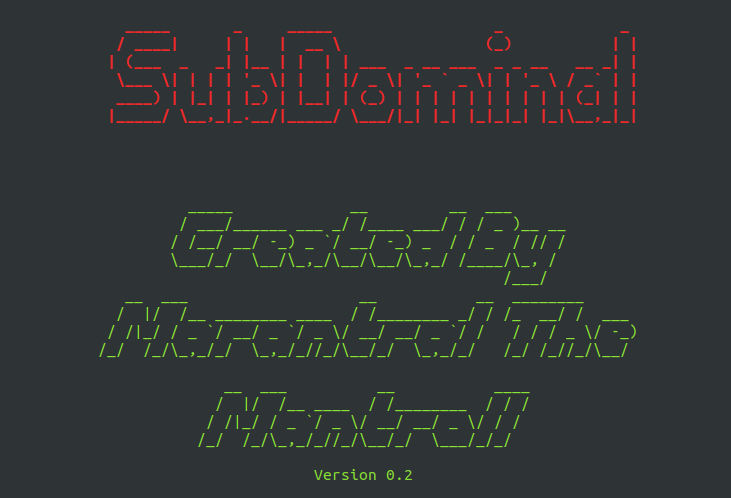
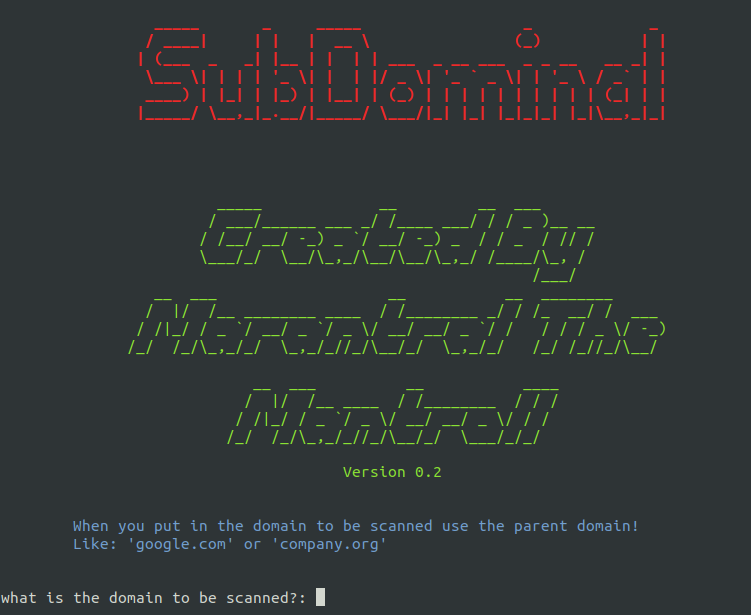
Updated main py

diff --git a/subdom.py b/subdom.py
@@ -33,28 +33,28 @@ def wayback(sites):
 
 def scandns(sites):
     isp = {"23.202.231.169", "23.221.222.250"}
-    ddns = {'.herokudns.com', ".herokuapp.com", "herokussl.com", ".azurewebsites.net", ".cloudapp.net",
+    ddns = {'.herokudns.com', ".herokuapp.com", ".herokussl.com", ".azurewebsites.net", ".cloudapp.net",
             ".azure-api.net", ".trafficmanager.net", ".azureedge.net", ".cloudapp.azure.com", ".cloudfront.net",
-            ".s3.amazonaws.com", ".awsptr.com", ".elasticbeanstalk.com", ".uservoice.com", "unbouncepages.com",
-            "ghs.google.com", "ghs.googlehosted.com", ".ghs-ssl.googlehosted.com", ".github.io", "www.gitbooks.io",
-            "sendgrid.net", ".feedpress.me", ".fastly.net", ".webflow.io", "proxy.webflow.com", ".helpscoutdocs.com",
+            ".s3.amazonaws.com", ".awsptr.com", ".elasticbeanstalk.com", ".uservoice.com", ".unbouncepages.com",
+            ".ghs.google.com", ".ghs.googlehosted.com", ".ghs-ssl.googlehosted.com", ".github.io", ".www.gitbooks.io",
+            ".sendgrid.net", ".feedpress.me", ".fastly.net", ".webflow.io", ".proxy.webflow.com", ".helpscoutdocs.com",
             ".readmessl.com", ".desk.com", ".zendesk.com", ".mktoweb.com", ".wordpress.com", ".wpengine.com",
             ".cloudflare.net", ".netlify.com", ".bydiscourse.com", ".netdna-cdn.com", ".pageserve.co",
-            ".pantheonsite.io", ".arlo.co", ".apigee.net", ".pmail5.com", ".cm-hosting.com", "ext-cust.squarespace.com",
-            "ext.squarespace.com", "www.squarespace6.com", ".locationinsight.com", ".helpsite.io", "saas.moonami.com",
-            "custom.bnc.lt", ".qualtrics.com", ".dotcmscloud.net", ".dotcmscloud.com", ".knowledgeowl.com",
-            ".atlashost.eu", "headwayapp.co", "domain.pixieset.com", "cname.bitly.com", ".awmdm.com", ".meteor.com",
-            ".postaffiliatepro.com", "na.iso.postaffiliatepro.com", ".copiny.com", ".kxcdn.com", "phs.getpostman.com",
+            ".pantheonsite.io", ".arlo.co", ".apigee.net", ".pmail5.com", ".cm-hosting.com", ".ext-cust.squarespace.com",
+            ".ext.squarespace.com", ".www.squarespace6.com", ".locationinsight.com", ".helpsite.io", ".saas.moonami.com",
+            ".custom.bnc.lt", ".qualtrics.com", ".dotcmscloud.net", ".dotcmscloud.com", ".knowledgeowl.com",
+            ".atlashost.eu", "headwayapp.co", ".domain.pixieset.com", ".cname.bitly.com", ".awmdm.com", ".meteor.com",
+            ".postaffiliatepro.com", ".na.iso.postaffiliatepro.com", ".copiny.com", ".kxcdn.com", ".phs.getpostman.com",
             ".appdirect.com", ".streamshark.io", ".ethosce.com", ".custhelp.com", ".onelink-translations.com",
-            ".mashery.com", ".edgesuite.net", ".akadns.net", ".edgekey.net", 'akamaiedge.net', ".edgekey-staging.net",
+            ".mashery.com", ".edgesuite.net", ".akadns.net", ".edgekey.net", '.akamaiedge.net', ".edgekey-staging.net",
             ".lldns.net", ".edgecastcdn.net", "centercode.com", ".jivesoftware.com", ".cvent.com", ".covisint.com",
             ".digitalrivercontent.net", ".akahost.net", ".connectedcommunity.org", ".lithium.com", ".sl.smartling.com",
-            "pfsweb.com", ".bsd.net", ".vovici.net", ".extole.com", ".ent-sessionm.com", ".eloqua.com", ".inscname.net",
-            "insnw.net", ".2o7.net", ".wnmh.net", ".footprint.net", ".llnwd.net", ".cust.socrata.net", ".scrool.se",
+            ".pfsweb.com", ".bsd.net", ".vovici.net", ".extole.com", ".ent-sessionm.com", ".eloqua.com", ".inscname.net",
+            ".insnw.net", ".2o7.net", ".wnmh.net", ".footprint.net", ".llnwd.net", ".cust.socrata.net", ".scrool.se",
             ".phenompeople.com", ".investis.com", ".skilljar.com", ".imomentous.com", ".cleverbridge.com", ".insnw.net",
-            "sailthru.com", "static.captora.com", ".q4web.com", ".omtrdc.net", ".devzing.com", ".pphosted.com",
+            ".sailthru.com", ".static.captora.com", ".q4web.com", ".omtrdc.net", ".devzing.com", ".pphosted.com",
             ".securepromotion.com", ".getbynder.com", ".certain.com", ".certainaws.com", ".eds.com", ".bluetie.com",
-            ".relayware.com", ".yodlee.com", ".mrooms.net", "ssl.cdntwrk.com", "secure.gooddata.com", ".deltacdn.net",
+            ".relayware.com", ".yodlee.com", ".mrooms.net", ".ssl.cdntwrk.com", ".secure.gooddata.com", ".deltacdn.net",
             ".happyfox.com", ".proformaprostores.com", ".yext-cdn.com", ".edgecastdns.net", ".ecdns.net"}
     q = dns.resolver.resolve(sites, 'A')
     for rname in q:
@@ -62,24 +62,27 @@ def scandns(sites):
         if name in isp:
             pass
         else:
-            print("[+] Subdomain:" + sites + " : IP being: " + name + "\n")
-            up = "echo 'Subdomain Found!!:  " + sites + " with the IP of: " + name + r" \n ' >> ./" + domain + "_subdomain_Scan.txt"
-            subprocess.call(up, shell=True)
-            if sites not in site2:
-                current = sites[:]
-                site2.append(current)
-
-            q = dns.resolver.resolve(sites, 'CNAME')
-            for bong in q:
-                c_val = str(bong.target)
-                print("\n[+] The CNAME for " + sites + " is: " + c_val)
-                inputfile = "echo '  CNAME Results for " + sites + " is:  " + c_val + r" \n' >> ./" + domain + "_subdomain_Scan.txt"
-                subprocess.call(inputfile, shell=True)
-                for d in ddns:
-                    if d in c_val:
-                        print(ERROR + "\n\t!!!!!we might have a dangler!!!!! \n\t" + c_val + " : " + d + " : Subdomain: " + sites + "\n\n" + ENDC)
-                        inputfile = "echo '  CNAME could be vulnerable to dangling DNS " + sites + " is:  " + c_val + " Which is connected to known Dangling DNS source: " + d + r"  you should check on that! \n' >> ./" + domain + "_subdomain_Scan.txt "
+            with open(domain + "_subdomain_Scan.txt") as file:
+                if sites in file.read():
+                    pass
+                else:
+                    print("[+] Subdomain:" + sites + " : IP being: " + name + "\n")
+                    up = "echo 'Subdomain Found!!:  " + sites + " with the IP of: " + name + r" \n ' >> ./" + domain + "_subdomain_Scan.txt"
+                    subprocess.call(up, shell=True)
+                    if sites not in site2:
+                        current = sites[:]
+                        site2.append(current)
+                    q = dns.resolver.resolve(sites, 'CNAME')
+                    for bong in q:
+                        c_val = str(bong.target)
+                        print(GREEN + "\n[+] The CNAME for " + sites + " is: " + c_val + ENDC)
+                        inputfile = "echo '  CNAME Results for " + sites + " is:  " + c_val + r" \n' >> ./" + domain + "_subdomain_Scan.txt"
                         subprocess.call(inputfile, shell=True)
+                        for d in ddns:
+                            if d in c_val:
+                                print(ERROR + "\n\t!!!!!we might have a dangler!!!!! \n\t" + c_val + " : " + d + " : Subdomain: " + sites + "\n\n" + ENDC)
+                                inputfile = "echo '  CNAME could be vulnerable to dangling DNS " + sites + " is:  " + c_val + " Which is connected to known Dangling DNS source: " + d + r"  you should check on that! \n' >> ./" + domain + "_subdomain_Scan.txt "
+                                subprocess.call(inputfile, shell=True)
 
 
 
@@ -117,7 +120,8 @@ def main():
                                       Version 0.2 
     """ + ENDC)
 
-
+    print(BLUE + "\n\tWhen you put in the domain to be scanned use the parent domain!")
+    print("\tLike: 'google.com' or 'company.org'\n\n" + ENDC)
 
     domain = input("what is the domain to be scanned?: ").strip()
 
@@ -142,13 +146,32 @@ def main():
     with concurrent.futures.ThreadPoolExecutor(max_workers=None) as executor:
         executor.map(wayback, site2)
 
-    print(ERROR + "\n\tWe are looking for interesting urls within the Wayback for " + domain + "\n" + ENDC)
+    print(GREEN + "\n\t-----We are looking for interesting urls within the Wayback for " + domain + "-----\n" + ENDC)
     site_1 = "https://web.archive.org/cdx/search/cdx?url=*." + domain + "/*&output=text&fl=original&collapse=urlkey"
     response_2 = requests.get(site_1)
     response_fin = response_2.text
     file = open(domain + "_way_osint.txt", "w")
     file.write(response_fin)
     file.close()
+
+    pars = ["user", "pass", "password", "pword", "username", "USER", "Pass", "token", "UserName", "Token", "secret",
+            "email", "Password", "User", "admin", "Administrator", "ADMIN", "Admin", "jsession", "userid", ]
+
+    risk = []
+    for p in pars:
+        if p in response_fin:
+            if p not in risk:
+                current = p[:]
+                risk.append(current)
+
+    for r in risk:
+        print(BLUE + "\n\tPotential interesting parameter found!: " + BOLD + ERROR + r + ENDC)
+
+    print(BLUE + "\n\tThere might be interesting things within the parameters. However, we might not found them "
+                         "automaticly.\n\tTake a look!!" + ENDC)
+
+    print("\n\tOutput files are: \n\t" + GREEN + domain + "_subdomain_Scan.txt \n\t" + domain
+          + "_wayback_scan.txt \n\t" + domain + "_way_osint.txt\n" + ENDC)
     print("Thanks for using SubDominal!")
 
 # call main() function
